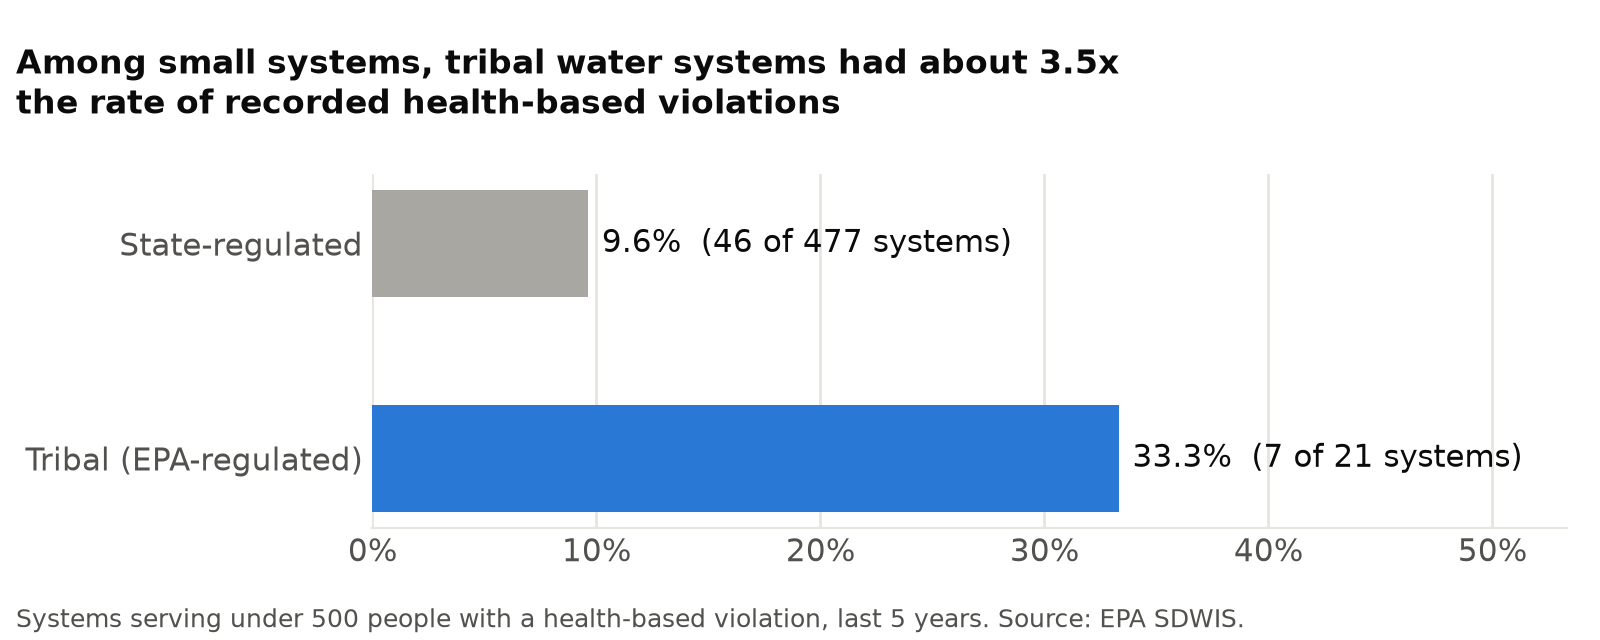
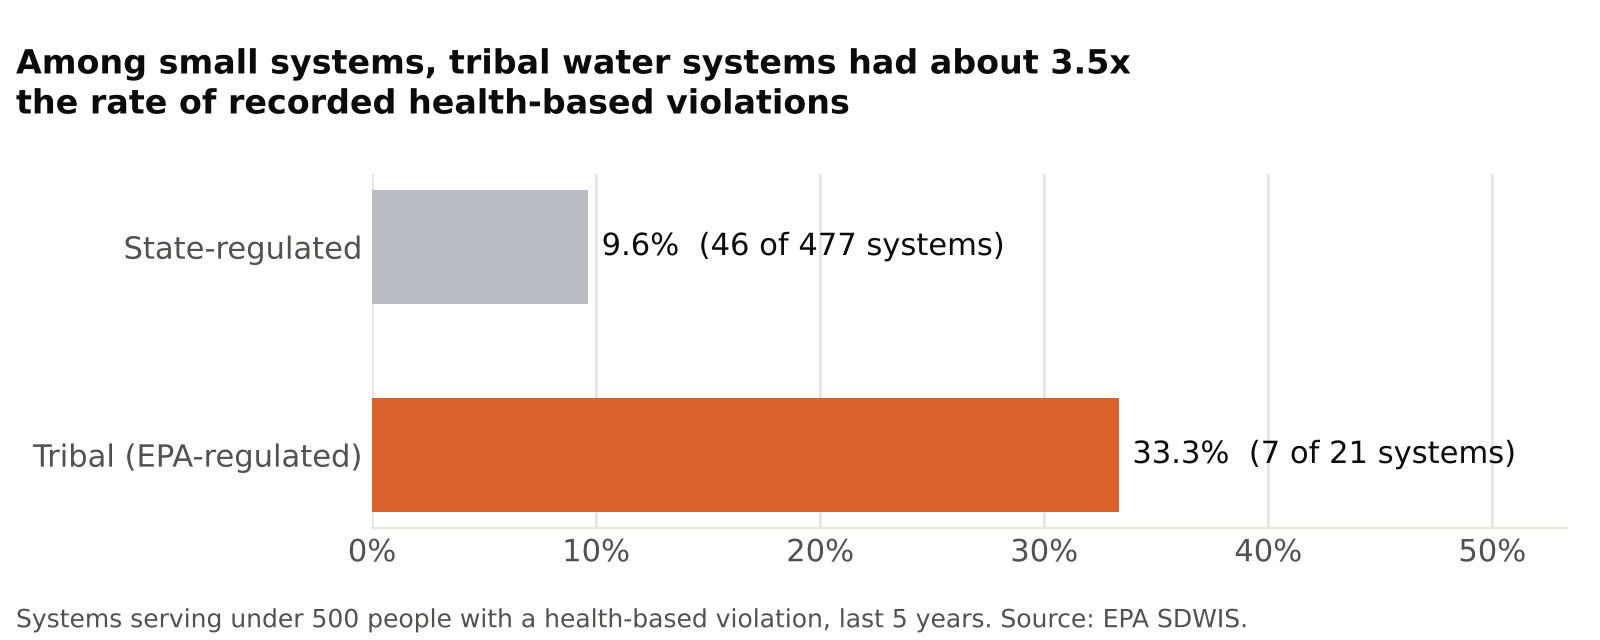
Cleaner README: key findings up top, county map, matching chart colors

diff --git a/charts.py b/charts.py
@@ -1,9 +1,15 @@
 """Make README charts from the CSVs in output/. Run after build.py."""
 import csv
+import json
 from pathlib import Path
 import matplotlib.pyplot as plt
+from matplotlib.colors import LinearSegmentedColormap
+from matplotlib.patches import Polygon
+from matplotlib.collections import PatchCollection
 
-BLUE, GRAY = "#2a78d6", "#a8a7a1"
+# Same colors as the story page
+BLUE, GRAY, ORANGE = "#1c5a99", "#b8bcc2", "#d9622b"
+RAMP = LinearSegmentedColormap.from_list("wells", ["#eef4fb", "#c6dbef", "#85b4dc", "#3f83c4", "#1c5a99", "#0b3566"])
 INK, MUTED, GRID = "#0b0b0b", "#52514e", "#e6e5e0"
 plt.rcParams.update({"font.family": "sans-serif", "font.size": 11,
                      "axes.edgecolor": GRID, "axes.labelcolor": MUTED,
@@ -32,12 +38,12 @@ pop_share = 100 * sum(r["pop"] for r in wells) / total_pop
 fig, ax = plt.subplots(figsize=(8, 3.2), dpi=200)
 labels = ["Share of water systems", "Share of people served"]
 vals = [sys_share, pop_share]
-ax.barh(labels, vals, color=BLUE, height=0.5)
-ax.barh(labels, [100 - v for v in vals], left=vals, color=GRAY, height=0.5)
+ax.barh(labels, vals, color=BLUE, height=0.55)
+ax.barh(labels, [100 - v for v in vals], left=vals, color=GRAY, height=0.55)
 for i, v in enumerate(vals):
-    ax.text(v - 2, i, f"{v:.0f}% wells", va="center", ha="right", color="white", fontweight="bold")
-    ax.text(v + 2, i, f"{100 - v:.0f}% rivers and lakes", va="center", ha="left", color=INK)
-ax.set_xlim(0, 100); ax.invert_yaxis(); ax.set_xticks([])
+    ax.text(2, i, f"{v:.0f}% wells", va="center", ha="left", color="white", fontweight="bold")
+    ax.text(102, i, f"{100 - v:.0f}% rivers\nand lakes", va="center", ha="left", color=INK, fontsize=10)
+ax.set_xlim(0, 125); ax.invert_yaxis(); ax.set_xticks([])
 for side in ("top", "right", "left", "bottom"):
     ax.spines[side].set_visible(False)
 ax.tick_params(length=0)
@@ -50,14 +56,14 @@ plt.close(fig)
 
 # Chart 2: violation rate, small systems only (under 500 people), tribal vs. state-regulated
 small = [r for r in rows if r["pop"] < 500]
-groups = [("State-regulated", False, GRAY), ("Tribal (EPA-regulated)", True, BLUE)]
+groups = [("State-regulated", False, GRAY), ("Tribal (EPA-regulated)", True, ORANGE)]
 fig, ax = plt.subplots(figsize=(8, 3.2), dpi=200)
 rates = {}
 for i, (name, flag, color) in enumerate(groups):
     g = [r for r in small if r["tribal"] == flag]
     pct = 100 * sum(r["viol"] for r in g) / len(g)
     rates[flag] = pct
-    ax.barh(i, pct, color=color, height=0.5)
+    ax.barh(i, pct, color=color, height=0.55)
     ax.text(pct + 0.6, i, f"{pct:.1f}%  ({sum(r['viol'] for r in g)} of {len(g)} systems)",
             va="center", color=INK)
 ax.set_yticks([0, 1], [g[0] for g in groups])
@@ -72,4 +78,33 @@ fig.text(0.01, 0.02, "Systems serving under 500 people with a health-based viola
 fig.tight_layout(rect=(0, 0.06, 1, 0.78))
 fig.savefig("images/small_system_violations.png", facecolor="white")
 plt.close(fig)
-print("Wrote images/wells_vs_people.png and images/small_system_violations.png")
+# Chart 3: county map, share of people on well systems
+geo = json.loads(Path("data/geo/mn_counties.geojson").read_text())
+by_county = {}
+for r in rows:
+    if not r["county"] or not r["pwsid"].startswith(("MN", "05")):
+        continue
+    c = by_county.setdefault(r["county"], [0, 0])
+    c[1] += r["pop"]
+    if r["source_type"] == "Groundwater (wells)":
+        c[0] += r["pop"]
+fig, ax = plt.subplots(figsize=(6.4, 6.4), dpi=200)
+patches, colors = [], []
+for f in geo["features"]:
+    g = f["geometry"]
+    polys = g["coordinates"] if g["type"] == "MultiPolygon" else [g["coordinates"]]
+    c = by_county.get(f["properties"]["NAME"])
+    color = RAMP(c[0] / c[1]) if c and c[1] else "#e4e7eb"
+    for poly in polys:
+        patches.append(Polygon(poly[0], closed=True)); colors.append(color)
+ax.add_collection(PatchCollection(patches, facecolor=colors, edgecolor="white", linewidth=0.6))
+ax.autoscale_view(); ax.set_aspect(1 / 0.69); ax.axis("off")
+sm = plt.cm.ScalarMappable(cmap=RAMP, norm=plt.Normalize(0, 100))
+cb = fig.colorbar(sm, ax=ax, shrink=0.45, pad=0.02, format="%.0f%%")
+cb.outline.set_visible(False); cb.ax.tick_params(length=0, labelsize=9, colors=MUTED)
+fig.text(0.02, 0.97, "Share of people on well systems, by county", color=INK, fontsize=12, fontweight="bold", va="top")
+fig.text(0.02, 0.02, "Community water systems only (not private wells). Gray: no community system. Source: EPA SDWIS.",
+         color=MUTED, fontsize=8)
+fig.savefig("images/county_map.png", facecolor="white", bbox_inches="tight")
+plt.close(fig)
+print("Wrote images/wells_vs_people.png, images/small_system_violations.png, images/county_map.png")

diff --git a/README.md b/README.md
@@ -1,38 +1,49 @@
 # U.S. Water Access
 
-**Status: In progress.** Story page (Minnesota): https://louiserosenbaum.github.io/US-water-access/ . Full interactive map planned for January 31, 2027.
+**[View the interactive story page →](https://louiserosenbaum.github.io/US-water-access/)**
 
-## The question
+Who drinks from wells, who is responsible for their water, and where are people least protected? This project starts with Minnesota, using EPA drinking water data, SQL (DuckDB), and Python.
 
-Why does tap water look, smell, and feel so different from place to place, who is responsible for it, and where are people least protected?
+**Status:** Minnesota findings published. Private wells and water hardness are next; the full interactive map is planned for January 31, 2027.
 
-## Why it matters
+## Key findings: Minnesota
 
-Safe drinking water has been recognized as a human right by the United Nations since 2010. In the U.S., the Safe Drinking Water Act sets enforceable health limits for public water systems, but taste, smell, and hardness are left to local utilities, and private wells are not covered by federal rules at all.
+- **Most systems are wells, but rivers and lakes serve a third of people.** 95% of the state's 998 active community water systems run on wells, while 48 river and lake systems serve 1.5 million people.
+- **Small tribal systems had about 3.5x the violation rate.** Among systems serving under 500 people, 7 of 21 tribal systems had a recorded health-based violation in the last five years, versus 46 of 477 state-regulated ones.
+- **Raw totals mislead.** One violation at Saint Paul Regional Water Services (392,529 people) makes it look like hundreds of thousands were affected, and one ongoing radium problem in Inver Grove Heights shows up as 22 quarterly violations. Counting systems gives the fairer picture.
 
-## Findings so far: Minnesota
+<p align="center"><img src="images/county_map.png" width="520" alt="Share of people on well systems, by Minnesota county"></p>
 
 ![Share of systems vs. share of people on wells](images/wells_vs_people.png)
 
-95% of Minnesota's 998 active community water systems run on wells, but 48 river and lake systems serve nearly a third of the people (1.5 million). Most of the state's remaining residents likely rely on private wells, which federal drinking water rules do not cover. That gap is the next thing to check.
-
 ![Small-system violation rates, tribal vs. state-regulated](images/small_system_violations.png)
 
-Tribal water systems in Minnesota are regulated by the EPA, not the state, and use a different ID format (`05...` instead of `MN...`). My first query left them out by accident. Comparing small systems (under 500 people) to small systems, 7 of 21 tribal systems had a recorded health-based violation in the last five years, versus 46 of 477 state-regulated ones: about 3.5x the rate. The other size groups have too few tribal systems (1 to 4) to compare.
+## Method notes
 
-**Fixing my own mistake:** an earlier version said 2.7x. I had filtered systems by `STATE_CODE = 'MN'`, but that column is the owner's mailing state, not where the water system is. That pulled in 14 systems from other states and labeled them tribal. The query now goes by the system ID.
+- **Tribal systems:** Minnesota's tribal water systems are regulated by the EPA, not the state, and use a different ID format (`05...` instead of `MN...`). My first query left them out by accident; I caught it because they had no county match.
+- **Fixing my own mistake:** an earlier version said 2.7x. I had filtered by `STATE_CODE = 'MN'`, but that column is the owner's mailing state, not where the system is. That pulled in 14 out-of-state systems and labeled them tribal. The query now goes by system ID.
+- **Like with like:** small systems have more violations everywhere, so the tribal comparison only uses systems under 500 people. Other size groups have too few tribal systems (1 to 4) to compare.
+- **Limits:** 21 systems is a small group, and the EPA and the state may monitor and record violations differently. This shows where to look, not a cause.
 
-**Limits:** 21 systems is a small number, and differences in how the EPA and the state monitor and record violations could explain part of the gap. This shows where to look, not a cause.
+## How it's built
 
-**Watch the totals:** one violation at Saint Paul Regional Water Services (392,529 people) makes it look like hundreds of thousands were affected. And Inver Grove Heights' ongoing radium problem appears as 22 separate quarterly violations. Counts of systems, not people or violations, give the fairer picture.
+| Step | File | What it does |
+|---|---|---|
+| 1 | `sql/01_load_mn_systems.sql` | Loads EPA system records, keeps the latest snapshot per system |
+| 2 | `sql/02_counties.sql` | Matches each system to a county, flags tribal systems |
+| 3 | `sql/03_violations.sql` | Counts health-based violations per system, last 5 years |
+| 4 | `build.py` | Runs the SQL and writes the summary CSVs to `output/` |
+| 5 | `charts.py` | Draws the README charts (matplotlib) |
+| 6 | `story.py` | Builds the story page in `docs/` (Plotly) |
 
-## How to run
+<details>
+<summary>Run it yourself</summary>
 
-1. Download the SDWA data from [EPA ECHO Data Downloads](https://echo.epa.gov/tools/data-downloads) and put `SDWA_PUB_WATER_SYSTEMS.csv` in `data/raw/`.
-2. `pip install duckdb`
-3. `python3 build.py`
-4. `pip install matplotlib`, then `python3 charts.py` to redraw the charts
-5. `pip install plotly pandas`, then `python3 story.py` to rebuild the story page (`docs/index.html`)
+1. Download the SDWA data from [EPA ECHO Data Downloads](https://echo.epa.gov/tools/data-downloads) and put the CSVs in `data/raw/`.
+2. `python3 -m pip install duckdb pandas matplotlib plotly`
+3. `python3 build.py && python3 charts.py && python3 story.py`
+
+</details>
 
 ## Plan
 
@@ -42,16 +53,6 @@ Tribal water systems in Minnesota are regulated by the EPA, not the state, and u
 | 2 | State rules table, every row sourced and dated | Feb 28, 2027 |
 | 3 | Daily data refresh | Mar 31, 2027 |
 
-## Data sources (Phase 1)
+**Data sources:** EPA Safe Drinking Water Information System (SDWIS) for systems, sources, and violations; USGS for water hardness; Minnesota Department of Health for private wells.
 
-- **EPA Safe Drinking Water Information System (SDWIS):** public water systems, their sources, and violations
-- **USGS:** water hardness by location
-- **Minnesota Department of Health:** private well data
-
-## Tools
-
-SQL (DuckDB) for loading, cleaning, and joining. Python (matplotlib, Plotly) for the charts and the story page.
-
-## Notes
-
-This project is informational. It cites its sources and is not a health or legal authority.
+*This project is informational. It cites its sources and is not a health or legal authority.*
